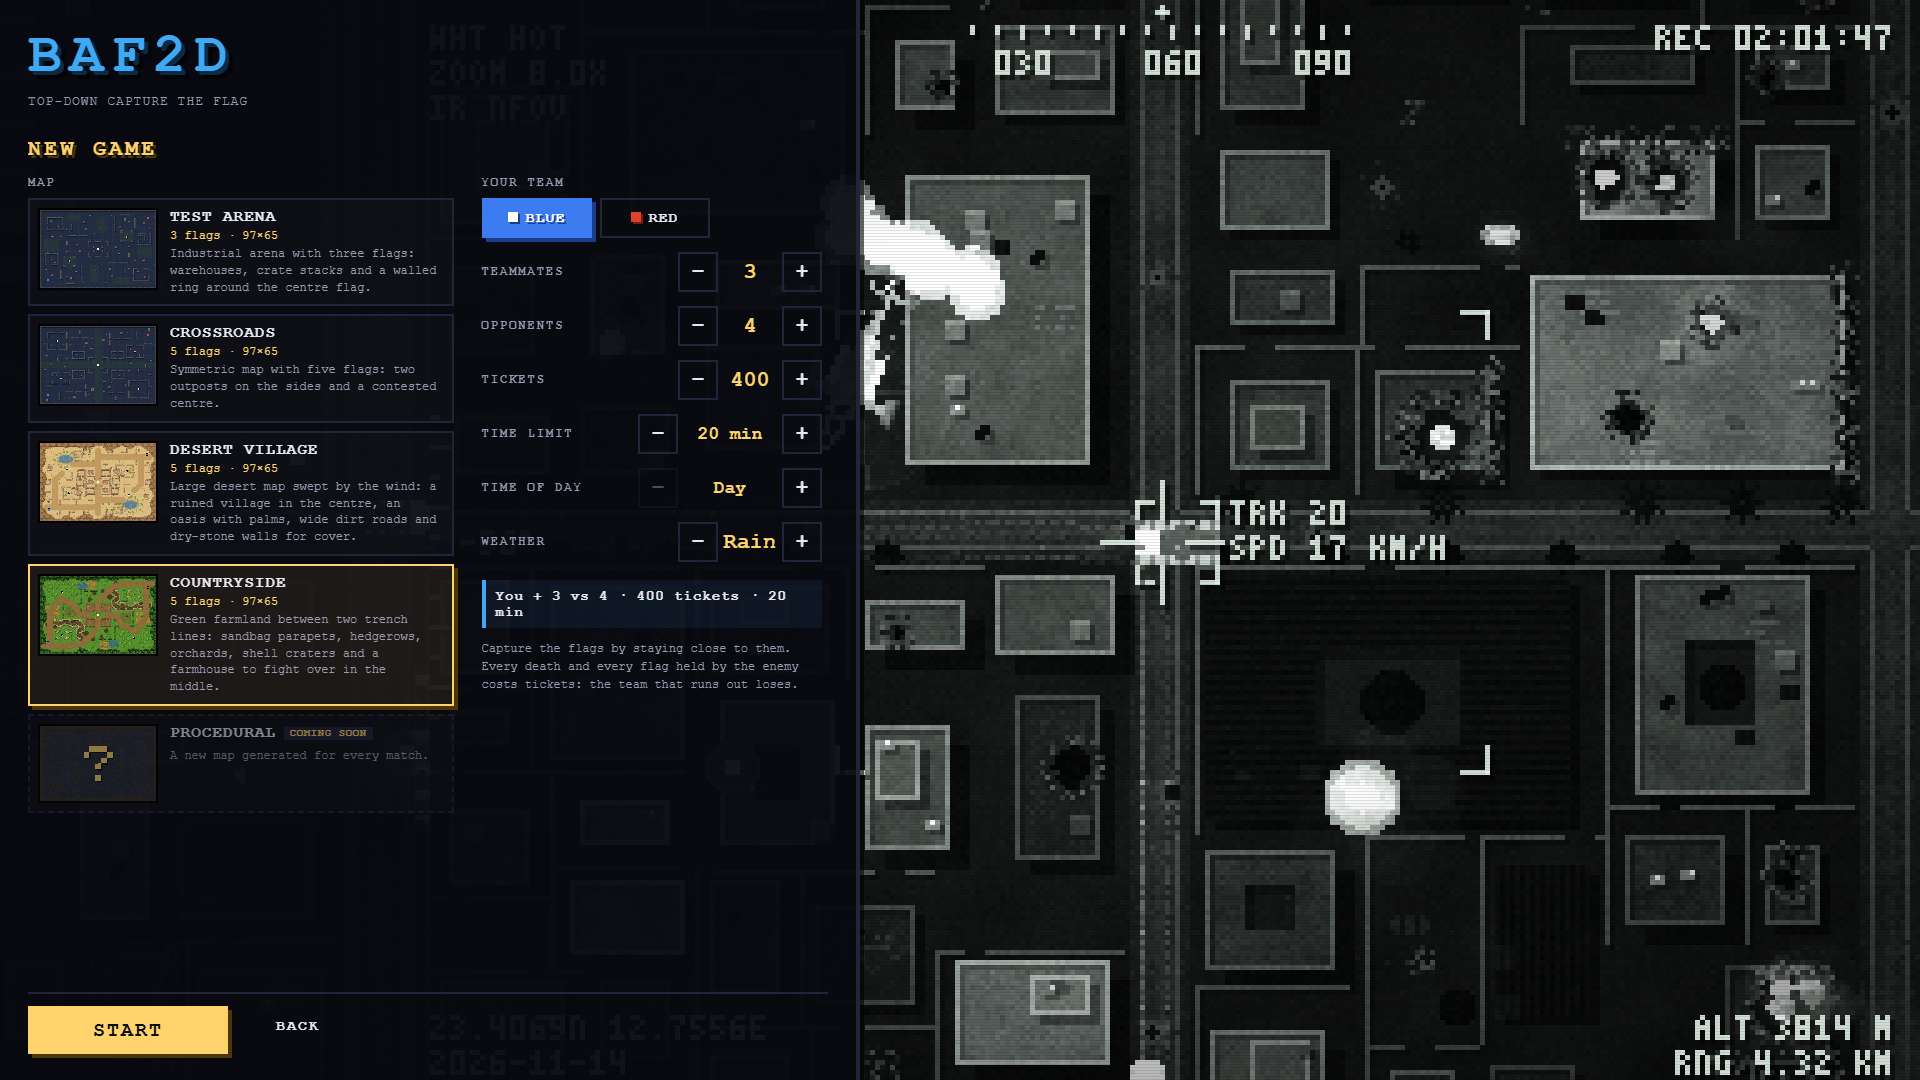
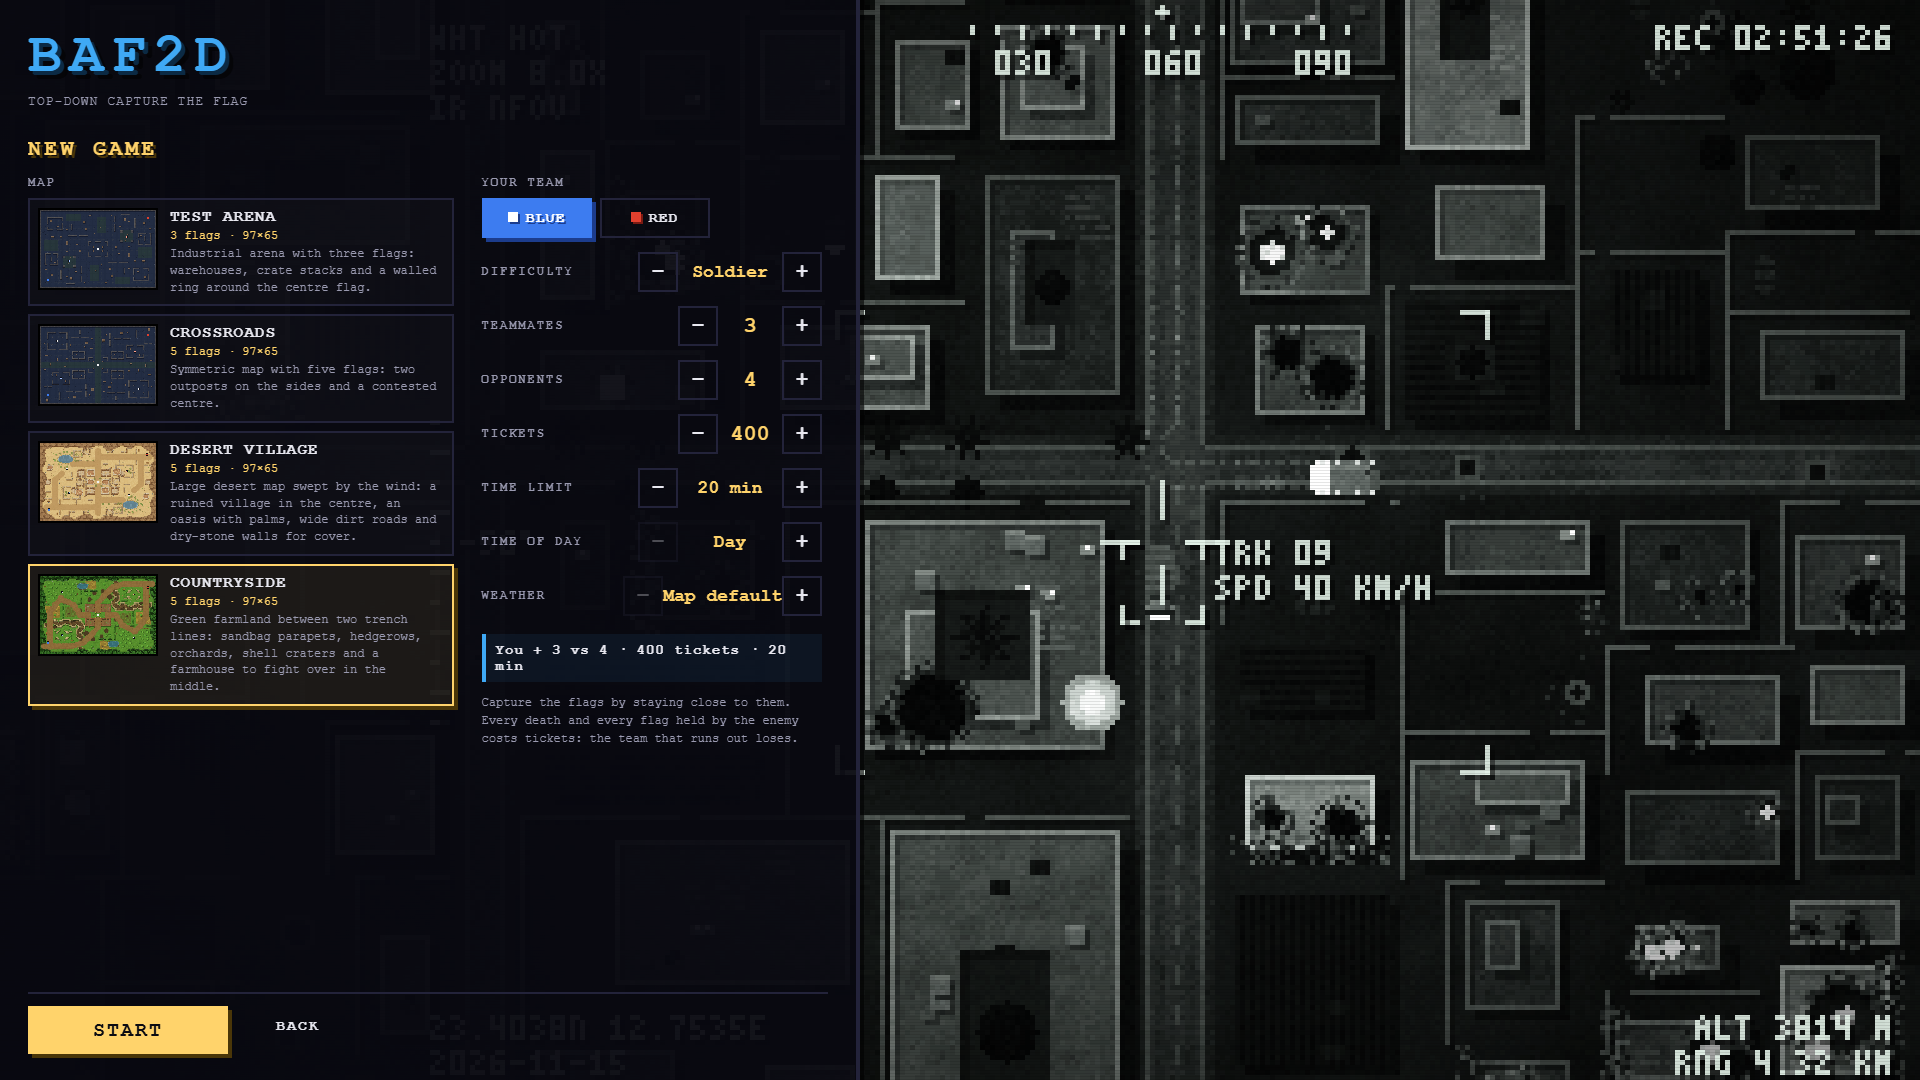
Versione 1.5.5: changelog, pagina itch.io, devlog e screenshot
- game.json -> version 1.5.5.
- CHANGELOG: addestramento, medaglia, difficoltà, briefing che aspetta,
  pulsanti touch, card procedurale tolta.
- docs/itch-io.md: descrizione aggiornata (addestramento, difficoltà,
  17 medaglie), elenco degli screenshot, devlog 1.5.5 in inglese.
- Screenshot 1920x1080: training_range, training_grenade,
  training_complete, new_game (con la difficoltà).
- HUD: riquadro dell'istruttore più stretto (non copre più la vita a 16:9).
- Nuova partita: lo stepper del meteo con lo stesso carattere degli altri.

diff --git a/css/style.css b/css/style.css
@@ -1038,6 +1038,7 @@ button {
 /* tempo limite, ora del giorno e difficoltà: "20 min" / "Tramonto" / "Veterano" sono più larghi dei numeri */
 [data-stepper="timeLimit"] .step-value,
 [data-stepper="timeOfDay"] .step-value,
+[data-stepper="weather"] .step-value,
 [data-stepper="difficulty"] .step-value {
   min-width: 104px;
   font-size: 18px;

diff --git a/docs/itch-io.md b/docs/itch-io.md
@@ -1,4 +1,4 @@
-# BAF2D — itch.io page (v1.5.0)
+# BAF2D — itch.io page (v1.5.5)
 
 Copy each block into the matching field of the itch.io "Edit game" page.
 
@@ -10,12 +10,12 @@ BAF2D
 
 ## Short description or tagline
 
-Top-down pixel-art capture the flag in sun, rain, fog or darkness: destructible maps, your own squad, vehicles and helicopters, medals, unlocks and a map editor.
+Top-down pixel-art capture the flag in sun, rain, fog or darkness: boot camp training, destructible maps, your own squad, vehicles and helicopters, medals, unlocks and a map editor.
 
 ## Classification / Kind of project
 
 - Classification: **Games**
-- Kind of project: **HTML** (upload `dist/BAF2D-1.5.0-html5.zip`, tick "This file will be played in the browser")
+- Kind of project: **HTML** (upload `dist/BAF2D-1.5.5-html5.zip`, tick "This file will be played in the browser")
 - Release status: **Released**
 
 ## Embed options (Uploads → HTML)
@@ -45,6 +45,11 @@ pick up better weapons and jump into vehicles. Every match feeds your career: sc
 
 <h3>Features</h3>
 <ul>
+  <li><strong>Boot camp.</strong> New to the game? A drill sergeant takes you through 13 exercises on the training
+    ground: firing range, grenades, rocket launcher, flags, driving a jeep and a timed assault course. Pass them all
+    to earn the <em>Basic training</em> medal.</li>
+  <li><strong>Three difficulty levels.</strong> Recruit, Soldier or Veteran: choose how sharp the enemy bots are
+    when they fight you.</li>
   <li><strong>Capture the Flag with tickets.</strong> Raise your flag in contested zones: flags you hold drain the
     enemy's tickets, and every death costs your team one. Pick the ticket count before each match.</li>
   <li><strong>Four large maps.</strong> The industrial <em>Test Arena</em>, <em>Crossroads</em> with its two
@@ -81,8 +86,8 @@ pick up better weapons and jump into vehicles. Every match feeds your career: sc
     that rewards short bursts. A tactical minimap and arrows at the screen edge keep you oriented.</li>
   <li><strong>Career and ranks.</strong> Points for kills, assists, defending, capturing and destroying vehicles. Your
     rank is saved in the browser and grows from match to match, with a promotion screen when you rank up.</li>
-  <li><strong>Medals.</strong> 16 feats to earn in battle: double and triple kills, killing sprees, grenade and
-    rocket kills, tank buster, roadkill, long shot, revenge, MVP, untouchable... each with its own pixel-art medal,
+  <li><strong>Medals.</strong> 17 feats to earn: double and triple kills, killing sprees, grenade and rocket kills,
+    tank buster, roadkill, long shot, revenge, MVP, untouchable, basic training... each with its own pixel-art medal,
     bonus points and a place in your collection.</li>
   <li><strong>Your soldier.</strong> Pick your call sign and starting weapon, then dress your soldier: camo,
     tactical vest, headgear, eyewear, beard, gloves, boots, headset, shemagh, knee pads, all shown on a full-body
@@ -125,6 +130,7 @@ Keys can be remapped in Options, where you can also turn on <strong>auto reload<
 
 <h3>Notes</h3>
 <ul>
+  <li>First time here? Start with <em>Training</em> from the main menu.</li>
   <li>Progress (rank, medals, your soldier, settings) is stored in your browser's local storage.</li>
   <li>The main menu runs a live thermal-camera drone feed over a city at war.</li>
   <li>On phones, play in landscape: the game asks for fullscreen on the first tap. Graphics quality switches to
@@ -156,20 +162,71 @@ Source code licensed under the GNU GPL v3.</p>
   2. `night_countryside.png` — Night battle in the countryside: a tank takes a flag by the light of a burning wreck.
   3. `desert_explosion.png` — A vehicle blows up at the desert oasis: fireball, shockwave and flying earth.
   4. `fog_countryside.png` — Morning fog rolls over the trenches.
-  5. `briefing.png` — Every match opens with a briefing over the battlefield.
-  6. `dusk_desert.png` — Dusk in the desert village: torches, craters and fires after the fight.
-  7. `main_menu.png` — The main menu: a live thermal drone feed over a city at war.
-  8. `new_game.png` — Pick the map, the teams, the time of day and the weather.
-  9. `dusk_rain_crossroads.png` — Rain at dusk on Crossroads: a flag lights up while it's being captured.
-  10. `match_end.png` — Victory: where the fighting was fiercest, leaderboard, medals, promotion and unlocks.
-  11. `soldier_customization.png` — Build your soldier: call sign, starting weapon, camo, vest, gear.
-  12. `apache_strike.png` — Attack helicopter run: rockets and cannon fire on the enemy trench line.
-  13. `map_editor.png` — The map editor: paint tiles, place flags, bases, pickups and vehicles, then test the map.
-  14. `medal_ingame.png` — Medals in battle: 16 feats, each with its own pixel-art medal.
+  5. `training_range.png` — Boot camp: the drill sergeant walks you through the firing range.
+  6. `training_grenade.png` — Bullets won't reach dug-in targets: time for a grenade.
+  7. `briefing.png` — Every match opens with a briefing over the battlefield.
+  8. `dusk_desert.png` — Dusk in the desert village: torches, craters and fires after the fight.
+  9. `main_menu.png` — The main menu: a live thermal drone feed over a city at war.
+  10. `new_game.png` — Pick the map, the difficulty, the teams, the time of day and the weather.
+  11. `dusk_rain_crossroads.png` — Rain at dusk on Crossroads: a flag lights up while it's being captured.
+  12. `match_end.png` — Victory: where the fighting was fiercest, leaderboard, medals, promotion and unlocks.
+  13. `soldier_customization.png` — Build your soldier: call sign, starting weapon, camo, vest, gear.
+  14. `apache_strike.png` — Attack helicopter run: rockets and cannon fire on the enemy trench line.
+  15. `map_editor.png` — The map editor: paint tiles, place flags, bases, pickups and vehicles, then test the map.
+  16. `training_complete.png` — Training complete: your first medal.
+  17. `medal_ingame.png` — Medals in battle: 17 feats, each with its own pixel-art medal.
 - Not in the list: `day_countryside.png`, `night_arena.png`, `vehicle_combat.png`, `medals.png`,
   `soldier_unlocks.png` (still valid, use them if you want more), `leaderboard.png` (superseded by `match_end.png`),
   `editor.png` (superseded by `map_editor.png`), and the pre-1.4 battle shots `oasis_battle.png`,
   `crossroads_firefight.png`, `promotion.png`, `apache_rocket.png` (older graphics).
+
+## Release notes (devlog) — v1.5.5
+
+Title: **BAF2D 1.5.5 — Boot camp and fair duels**
+
+Type: Update. Attach `training_range.png` (cover of the post), `training_grenade.png`, `training_complete.png` and
+`new_game.png`.
+
+BAF2D could be hard to get into, and a one-on-one with a bot was almost impossible to win. This update fixes both:
+a proper training course for new players, and bots that fight you fairly.
+
+**Boot camp**
+- There's a new **Training** entry in the main menu. A drill sergeant takes you through 13 exercises on a brand-new
+  training ground:
+  - moving and sprinting;
+  - shooting at the firing range, then reloading;
+  - grenades against targets dug in behind sandbags (bullets just hit the bags);
+  - picking up the rocket launcher and knocking out a tank target;
+  - switching weapons and capturing a flag;
+  - getting in a jeep, driving it down the road and getting out;
+  - a final assault course: six targets among the trenches in 60 seconds.
+- The sergeant's orders show your own keys, or describe the sticks and buttons if you're on a phone. A yellow
+  marker on the ground shows where to go next, and an arrow at the edge of the screen points to it when it's out of
+  view.
+- Run out of time on the final test and it starts over ("From the top, recruit!"). Pass it to earn the new
+  **Basic training** medal and 250 career points.
+- The targets are drawn in code like everything else: plywood men on posts that fall over when hit, a steel tank
+  silhouette that shrugs off bullets, and sandbagged targets that only a grenade can reach.
+
+**Fair duels**
+- New **Difficulty** option in *New game*: **Recruit**, **Soldier** (the default) and **Veteran**.
+- It changes how fast enemy bots react to you, how well they aim and lead their shots, how long they pause between
+  bursts and how hard they hit you. *Veteran* is the old behaviour.
+- I measured it: in a duel at medium range, a bot used to take you down in about 2.5–3.5 seconds. On *Soldier* it
+  now takes about 5–7 seconds, which is enough time to fight back.
+- Bots that spot you from off-screen no longer open fire the instant they come into view. They wait a moment, so
+  you can react.
+- This only applies to bots fighting **you**. Bots fight each other exactly as before, so the teams stay balanced.
+
+**Smaller fixes**
+- The briefing no longer starts the match by itself after a couple of seconds. Take your time, then press a key or
+  tap.
+- On phones, the reload and switch-weapon buttons no longer hide under the minimap. They now sit in an arc on the
+  left of the right stick, and the touch controls are always drawn on top of the HUD.
+- The "Procedural map — coming soon" card is gone from *New game*: I don't plan to make it after all.
+
+Your rank, medals and soldier carry over. New to BAF2D? Start with *Training*! And if *Soldier* feels too easy or
+too hard, tell me in the comments.
 
 ## Release notes (devlog) — v1.5.0
 

diff --git a/CHANGELOG.md b/CHANGELOG.md
@@ -3,6 +3,33 @@
 All notable changes to BAF2D. Versions follow [semantic versioning](https://semver.org/); the current version is
 in `config/game.json` (`version`) and shown at the bottom of the main menu panel.
 
+## [1.5.5] — 2026-11-15
+
+### Added
+- **Training** (main menu → *Training*): a drill sergeant takes you through 13 exercises on a new training ground:
+  moving, sprinting, shooting at a firing range, reloading, grenades against dug-in targets, picking up the rocket
+  launcher, knocking out a tank target, switching weapons, capturing a flag, getting in a jeep, driving and getting
+  out, and a timed assault course at the end. A yellow marker on the ground (and an arrow at the screen edge) shows
+  where to go, and the instructions match your keys or the touch controls. If you run out of time on the final
+  test, it starts over.
+- **Basic training medal**: complete the training to earn it and 250 career points (the points are only awarded
+  the first time).
+- **Difficulty** (*New game* → *Difficulty*): **Recruit**, **Soldier** (default) or **Veteran**. It changes how
+  quickly the enemy bots react to you, how well they aim and lead their shots, how long they pause between bursts
+  and how much damage they deal to you. Bots that spot you before you see them also wait a moment after they come
+  on screen before opening fire. It only affects bots fighting *you*: bots fight each other exactly as before.
+  *Veteran* plays like 1.5.0.
+
+### Changed
+- **One-on-one fights against bots are fairer.** At the default difficulty a bot takes about twice as long to bring
+  you down in a duel (about 5–7 s instead of 2.5–3.5 s at medium range).
+- **Briefing**: the match no longer starts on its own after a couple of seconds. It waits until you press a key or
+  tap the screen.
+- **Touch controls**: the reload and switch-weapon buttons moved to an arc on the left of the right stick, so they
+  are no longer hidden under the minimap on phones. Sticks and buttons are always drawn on top of the HUD.
+- *New game*: the "Procedural" map card ("coming soon") is gone.
+- The weather selector in *New game* uses the same text size as the other options.
+
 ## [1.5.0] — 2026-11-14
 
 ### Added
